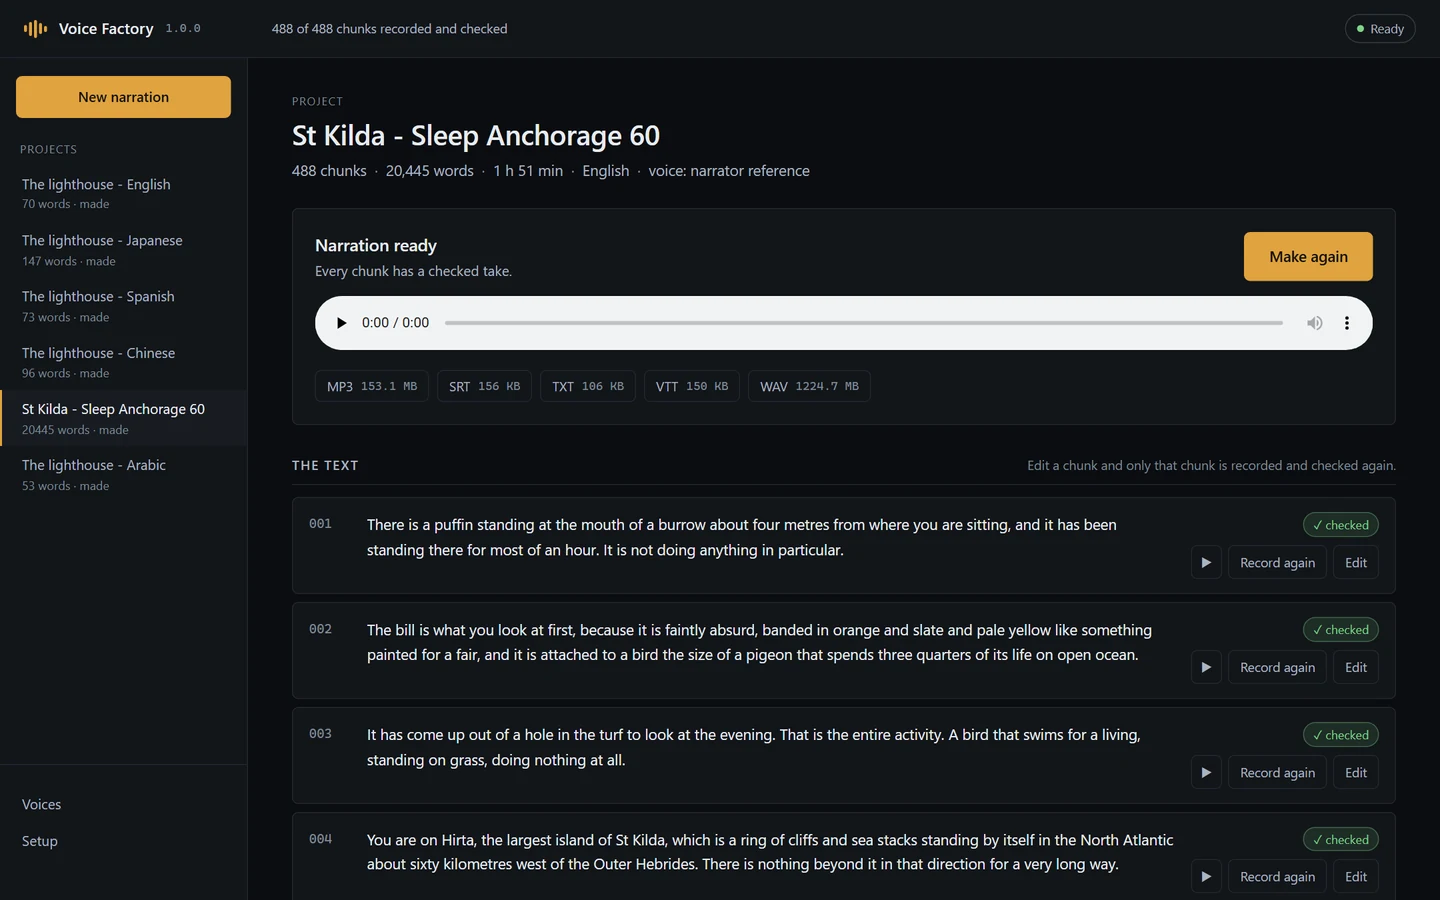
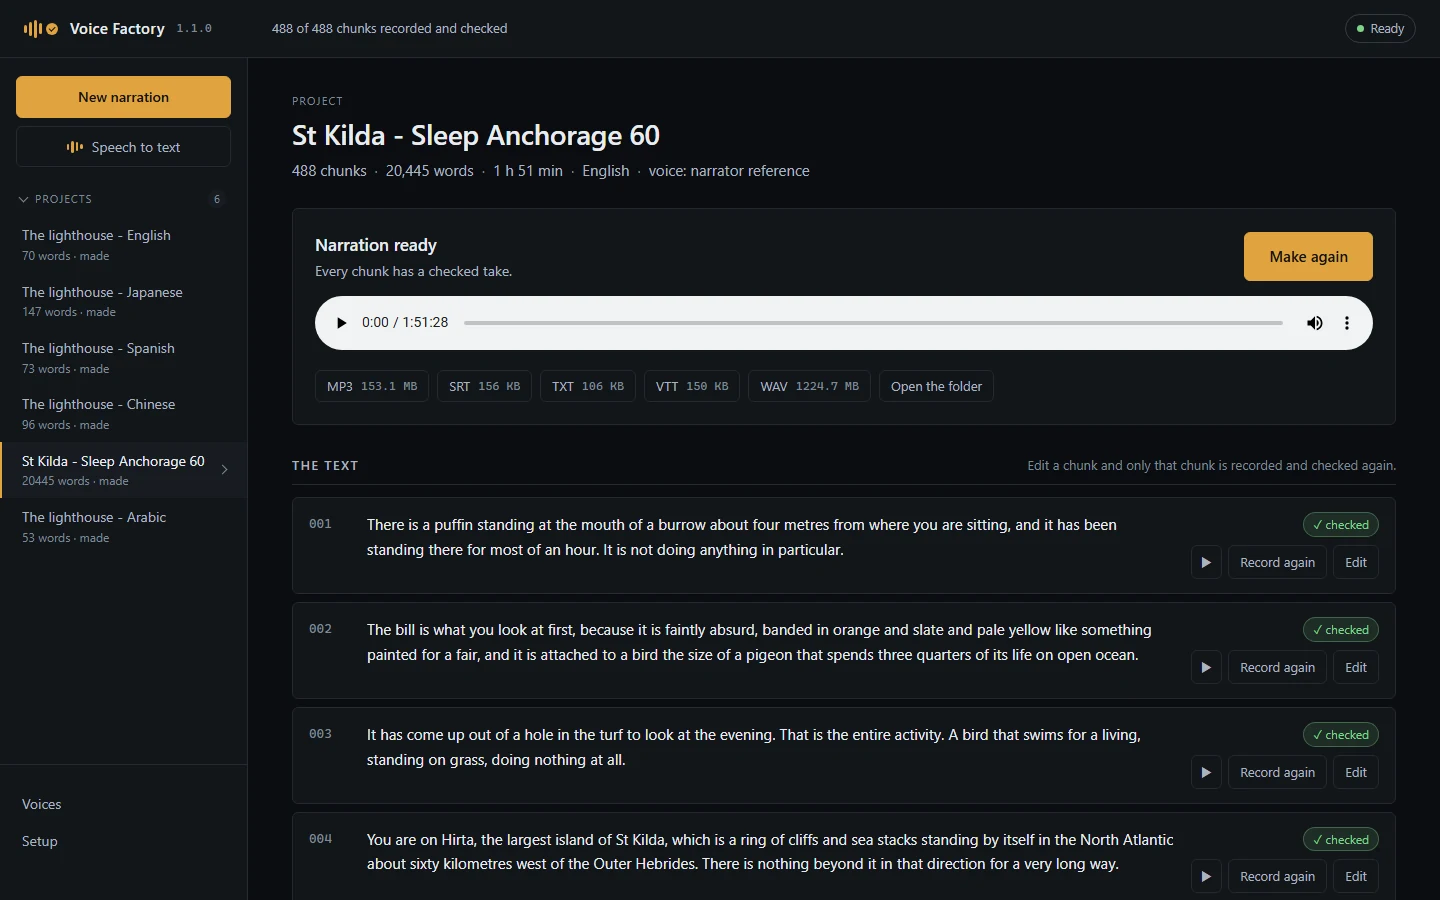
Voice Factory page: Speech to text, recording your own voice, pictures from the 1.1.0 studio

diff --git a/docs/voice-factory.html b/docs/voice-factory.html
@@ -287,6 +287,7 @@ if (location.protocol === "http:" && /(^|\.)local-factories\.com$/.test(location
   .sample audio { width:100%; }
   .sample .what { font-size:14px; opacity:.8; }
   .langs { display:flex; flex-wrap:wrap; gap:10px; margin-top:18px; justify-content:center; }
+  .langs.fmts { justify-content:flex-start; }
   .langs span { padding:6px 14px; border-radius:99px; border:1px solid rgba(233,182,90,.35); color:#e9b65a; font-size:14px; }
   .other { display:grid; grid-template-columns: 1fr auto; gap:24px; align-items:center; }
   @media (max-width: 760px) { .other { grid-template-columns: 1fr; } }
@@ -395,9 +396,29 @@ if (location.protocol === "http:" && /(^|\.)local-factories\.com$/.test(location
       </div>
       <div class="steps">
         <div class="card step" data-reveal><p class="no">01 · TEXT</p><svg class="ico"><use href="#i-text"/></svg><h3>Paste it or open a file</h3><p>Paste text, or drop a file: .txt, .docx, .pdf, .epub, .odt, .html, .rtf, .md, or subtitles (.srt, .vtt) to voice again.</p></div>
-        <div class="card step" data-reveal><p class="no">02 · VOICE</p><svg class="ico"><use href="#i-mic"/></svg><h3>Choose the voice</h3><p>Ten to fifteen seconds of clean speech in the voice you want — your own, or one you have permission to use. Then the language.</p></div>
+        <div class="card step" data-reveal><p class="no">02 · VOICE</p><svg class="ico"><use href="#i-mic"/></svg><h3>Your voice</h3><p>Ten to fifteen seconds of clean speech in the voice you want — your own, or one you have permission to use. Record it right in the studio, or choose a clip. Then the language.</p></div>
         <div class="card step" data-reveal><p class="no">03 · MAKE</p><svg class="ico"><use href="#i-ear"/></svg><h3>Recorded, listened to, repaired</h3><p>Every part is recorded, checked word by word and fixed. Then it is joined, the loudness is levelled, and the subtitles are written.</p></div>
         <div class="card step" data-reveal><p class="no">04 · FILES</p><svg class="ico"><use href="#i-download"/></svg><h3>Ready to use</h3><p>WAV, MP3, SRT and VTT subtitles and the text — for a video, a podcast, an audiobook or a course.</p></div>
+      </div>
+    </div>
+  </section>
+
+  <section id="stt" class="band">
+    <div class="wrap">
+      <div class="head" data-reveal>
+        <p class="eyebrow">Also inside</p>
+        <h2>Speech to text</h2>
+        <p class="sub">Any recording or video in. The words out, with their times — on your own PC.</p>
+      </div>
+      <div class="bento">
+        <div class="card wide" data-reveal>
+          <div class="txt">
+            <h3>Drop a recording, get the words</h3>
+            <p>Interviews, podcasts, lectures, videos — any length, in more than thirty languages, detected by itself. Correct it on the page, press any line to hear it from there, or make a narration from it in one of your voices.</p>
+            <div class="langs fmts"><span>Text</span><span>Text with times</span><span>SRT</span><span>VTT</span><span>Word</span><span>JSON</span></div>
+          </div>
+          <div class="shot"><img src="img/vf-stt.webp" alt="Voice Factory's speech to text: a recording written out line by line with its times, ready to download as text, subtitles or a Word document" width="1440" height="900" loading="lazy"></div>
+        </div>
       </div>
     </div>
   </section>
